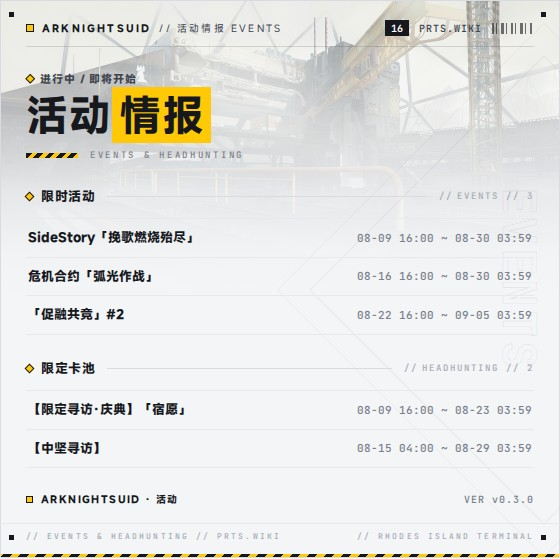
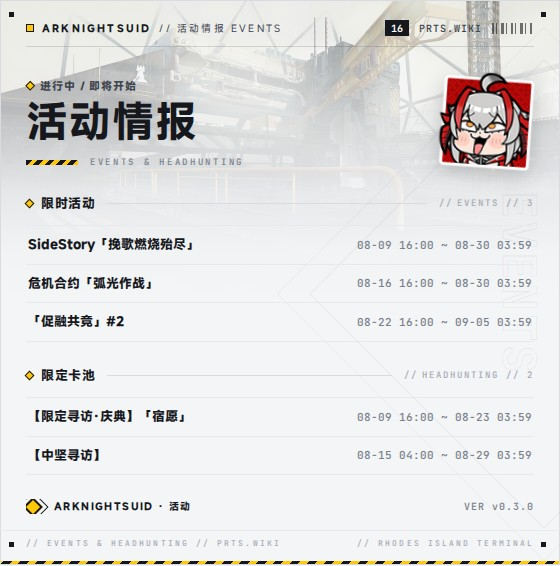
🖼 预览基线重渲染 + 渲染回归测试 + README 指令补全
- 28 张业务卡预览 JPG 重渲染（含新贴纸与底部 logo）
- tests/test_preview_render.py：覆盖守恒断言（新卡必须补假数据）
  + Playwright 全量渲染回归（无引擎自动跳过）
- README 补 ark攒抽 / ark面板 / ark肉鸽关卡

diff --git a/tools/render_previews.py b/tools/render_previews.py
@@ -57,6 +57,28 @@ def asset_b64(key: str) -> str:
 
 
 # 各模板的假数据（数据层接入前的设计验证用）
+def _gacha_plan_preview() -> dict:
+    """攒抽规划卡预览：走真实计算链（build_summary/build_plan_context）。"""
+    from ArknightsUID.utils.gacha_plan import (
+        PlanArgs,
+        build_plan_context,
+        build_summary,
+    )
+    from ArknightsUID.version import ArknightsUID_version
+
+    args = PlanArgs(
+        orundum=60000, originium=30, single_tickets=2, ten_tickets=1, pity=37
+    )
+    summary = build_summary(
+        args,
+        {"title": "·跨洲远航·", "end": "2026-09-01 04:00", "end_ts": 1e11},
+        pity=37,
+    )
+    return build_plan_context(
+        summary, "刀客塔不吃香菜", "12****89", ArknightsUID_version
+    )
+
+
 MOCK_CONTEXTS = {
     "ark_help.html": {
         "version": VERSION,
@@ -91,6 +113,7 @@ MOCK_CONTEXTS = {
                     {"cmd": "ark抽卡记录", "desc": "抽卡记录统计卡", "eg": "ark抽卡记录"},
                     {"cmd": "ark兑换码", "desc": "礼包码兑换", "eg": "ark兑换码 <code>"},
                     {"cmd": "ark养成", "desc": "养成材料缺口计算", "eg": "ark养成 银灰"},
+                    {"cmd": "ark攒抽 [参数]", "desc": "攒抽规划（自动垫刀/卡池）", "eg": "ark攒抽 玉:60000 石:30 垫刀:20"},
                 ],
             },
             {
@@ -235,6 +258,7 @@ MOCK_CONTEXTS = {
         ],
         "version": VERSION,
     },
+    "ark_gacha_plan.html": _gacha_plan_preview(),
     "ark_wiki_page.html": {
         "title": "源石",
         "summary": "泰拉大陆上普遍存在的黑色半透明矿物，蕴含着巨大的能量，也是天灾与矿石病的源头。它被广泛用于能源、工业与法术催化等领域，是这个世界运转的基石之一。",
@@ -246,6 +270,36 @@ MOCK_CONTEXTS = {
             {"key": "描述", "value": "接触过量源石会导致矿石病感染"},
         ],
         "source_url": "https://prts.wiki/w/源石",
+        "version": VERSION,
+    },
+    "ark_op_panel.html": {
+        "name": "银灰",
+        "char_id": "char_172_svrash",
+        "profession": "近卫",
+        "rarity": 6,
+        "avatar": "",
+        "owned": True,
+        "config_labels": ["精2 Lv90", "潜能6", "好感200%", "X模组·雪境羽兽护理套组 Lv3", "技能：真银斩·专3"],
+        "attrs": {"hp": "2990", "atk": "859", "def": "397", "res": "10",
+                  "cost": "18", "block": "2", "respawn": "66", "interval": "1.3"},
+        "breakdown": [
+            "生命：基础 2560 → 好感+100、模组+330",
+            "攻击：基础 713 → 潜能+26、好感+50、模组+70",
+        ],
+        "talents": [
+            {"name": "领袖", "description": "攻击力+12%（+2%），编入队伍时所有我方单位的再部署时间-10%"},
+            {"name": "鹰眼视觉", "description": "攻击范围内敌人的隐匿效果失效"},
+        ],
+        "skill": {
+            "title": "真银斩", "label": "专3",
+            "description": "攻击力+200%，攻击范围扩大，最多同时攻击3个敌人（满潜后攻击范围内所有敌人）",
+            "sp_init": "15", "sp_cost": "60", "duration": "30",
+        },
+        "skills": [],
+        "potentials": ["部署费用-1", "再部署时间-4秒", "攻击力+26", "第一天赋效果增强", "部署费用-1", "第二天赋效果增强"],
+        "module_choices": [{"type": "X", "name": "雪境羽兽护理套组"}],
+        "source_url": "https://prts.wiki/w/银灰",
+        "source_note": "数值 ArknightsGameData · 技能文本 PRTS Wiki",
         "version": VERSION,
     },
     "ark_wiki_operator.html": {
@@ -326,24 +380,41 @@ MOCK_CONTEXTS = {
         "attack_type": "近战",
         "move_type": "地面",
         "kind": "感染者",
+        "event": "主线第七章",
+        "enemy_id": "P7",
         "has_stats": True,
         "max_hp": "45000",
         "atk": "1200",
         "defense": "1500",
         "res": "60",
-        "has_level2": True,
-        "lv2_hp": "60000",
-        "lv2_atk": "1600",
-        "lv2_defense": "1500",
-        "lv2_res": "60",
-        "weight": "6",
+        "secondary_stats": [
+            {"label": "移动速度", "value": "0.4"},
+            {"label": "攻击间隔", "value": "4.0"},
+            {"label": "攻击范围半径", "value": "1.5"},
+            {"label": "重量", "value": "6"},
+            {"label": "生命恢复", "value": "200"},
+        ],
+        "resistances": [
+            {"label": "沉默", "value": "有"},
+            {"label": "眩晕", "value": "有"},
+        ],
+        "has_resistances": True,
+        "variants": [
+            {
+                "label": "等级2",
+                "hp": "60000",
+                "atk": "1600",
+                "defense": "1500",
+                "res": "60",
+                "abilities": [
+                    "狂怒姿态：攻击速度与移动速度大幅提升，防御力降低",
+                ],
+            }
+        ],
         "abilities": [
             "行军姿态：防御力大幅提升，阻挡数+1，法术抗性提升",
             "毁灭姿态：攻击力大幅提升，攻击造成范围伤害",
             "被击败时释放冲击波，对全场造成真实伤害",
-        ],
-        "lv2_abilities": [
-            "狂怒姿态：攻击速度与移动速度大幅提升，防御力降低",
         ],
         "source_url": "https://prts.wiki/w/爱国者",
         "version": VERSION,
@@ -386,16 +457,70 @@ MOCK_CONTEXTS = {
         "name": "歌利亚",
         "enemy_key": "enemy_2074_skzgly",
         "tags": ["领袖", "近战"],
+        "resistances": ["沉默"],
         "icon": "",
         "forms": [
-            {"title": "形态1", "hp": 80000, "atk": 2350, "def": 1000, "res": 25, "weight": 5, "attack": "近战/物理"},
+            {
+                "title": "形态1", "hp": 80000, "atk": 2350, "def": 1000,
+                "res": 25, "weight": 5, "attack": "近战/物理",
+                "extras": ["移速 0.5", "间隔 6s", "进点-5"],
+                "mechanics": [
+                    "只在阻挡数不低于5时才会被我方单位阻挡",
+                    "进入目标点后停留一段时间，持续造成大量法术伤害",
+                ],
+            },
         ],
         "theme_name": "萨卡兹的无终奇语",
-        "panels": [
-            {"grade": 0, "label": "难度0·新手（HP×0.8）", "stats": {"hp": 64000, "atk": 2350, "def": 1000, "res": 25}, "notes": []},
-            {"grade": 4, "label": "难度4", "stats": {"hp": 96000, "atk": 2350, "def": 1000, "res": 25}, "notes": []},
-            {"grade": 7, "label": "难度7~15 起（更高档数值不变）", "stats": {"hp": 96000, "atk": 2585, "def": 1000, "res": 25}, "notes": ["dmg_res 0.1"]},
+        "panels": [],
+        "stage_groups": [
+            {
+                "theme": "sarkaz",
+                "theme_name": "萨卡兹的无终奇语",
+                "stages": [
+                    "不容拒绝·ISW-DF·6-7层",
+                    "共谋的夜幕·ISW-NO·3层·形态2",
+                    "大君之赐·ISW-DF·3层·紧急+",
+                    "拆东补西·ISW-NO·1-2层",
+                    "守望的河水·ISW-NO·1层",
+                    "枯朽的引擎·ISW-DF·4层",
+                ],
+                "total": 9,
+            }
         ],
+        "focus": {
+            "grade": 12,
+            "label": "难度12",
+            "stats": {"hp": 122880, "atk": 2866, "def": 1150, "res": 25},
+            "buffs": ["生命×1.2", "攻击×1.15", "防御×1.15", "受到伤害×0.1", "每层增益+7%（未计入，按层复合）"],
+        },
+        "source_note": "数据 tomimi.dev（游戏解包）",
+        "version": VERSION,
+    },
+    "ark_rogue_stage.html": {
+        "name": "拆东补西",
+        "code": "ISW-NO",
+        "level_id": "level_rogue4_2-2",
+        "theme_name": "萨卡兹的无终奇语",
+        "difficulty": 15,
+        "difficulty_label": "难度15",
+        "elite": True,
+        "floors": "1-2层",
+        "elite_descs": ["所有敌方单位的攻击力，防御力，生命值+20%", "额外出现1个年代之刺"],
+        "elite_chips": ["攻击×1.2", "防御×1.2", "生命×1.2"],
+        "rows": [
+            {"key": "enemy_2063_skzlch", "name": "萨卡兹领主", "icon": "", "count": "4",
+             "stats": {"hp": 27840, "atk": 1128, "def": 1440, "res": 30}, "level": 0,
+             "elite_note": "", "has_diff": True},
+            {"key": "enemy_2065_skzjs", "name": "萨卡兹剑士", "icon": "", "count": "波次",
+             "stats": {"hp": 5184, "atk": 648, "def": 345, "res": 0}, "level": 0,
+             "elite_note": "", "has_diff": True},
+            {"key": "enemy_1071_dftman", "name": "重装防御者", "icon": "", "count": "0-1",
+             "stats": {"hp": 41472, "atk": 900, "def": 2073, "res": 0}, "level": 0,
+             "elite_note": "紧急+1", "has_diff": True},
+        ],
+        "row_count": 3,
+        "skipped": 1,
+        "floor_note": "每层增益+10%（未计入，按层复合）",
         "source_note": "数据 tomimi.dev（游戏解包）",
         "version": VERSION,
     },
@@ -678,6 +803,11 @@ async def _enrich_icons(name: str, context: dict) -> None:
 
         if context.get("enemy_key"):
             context["icon"] = await enemy_icon_b64(context["enemy_key"])
+    elif name == "ark_rogue_stage.html":
+        from ArknightsUID.utils.gamedata.rogue_enemy import enemy_icon_b64
+
+        for row in context.get("rows", []):
+            row["icon"] = await enemy_icon_b64(row.get("key") or "")
     elif name == "ark_rogue_relic.html":
         from ArknightsUID.utils.gamedata.rogue_relic import relic_icon_b64
 
@@ -716,6 +846,13 @@ async def _enrich_icons(name: str, context: dict) -> None:
                 "",
             )
             row["avatar"] = await char_avatar_b64(hit) if hit else ""
+
+    # 头像增强（面板模拟卡用 char_id 换头像）
+    if name == "ark_op_panel.html":
+        from ArknightsUID.utils.player.context import char_avatar_b64
+
+        if context.get("char_id"):
+            context["avatar"] = await char_avatar_b64(context["char_id"])
 
     # 立绘是独立增强位（与材料图标 elif 链不冲突，可同时命中）
     if name in ("ark_char_card.html", "ark_cultivate.html", "ark_wiki_mastery.html", "ark_wiki_operator.html"):
@@ -779,10 +916,10 @@ async def _enrich_icons(name: str, context: dict) -> None:
         context["six_rows"] = six_rows
 
     if name == "ark_help.html":
-        # 装饰浮空立绘（阿米娅，透明 PNG）
-        from ArknightsUID.utils.player.context import char_portrait_b64
+        # 逐命令 Q 版干员图标（与生产同一分配函数）
+        from ArknightsUID.arknightsuid_help import assign_group_icons
 
-        context["figure"] = await char_portrait_b64("char_002_amiya", 5)
+        context["groups"] = assign_group_icons(context["groups"])
 
     if name == "ark_building.html":
         # 房间成员头像：名称反查 charId → 初始头像

diff --git a/tests/test_preview_render.py b/tests/test_preview_render.py
@@ -1,0 +1,68 @@
+"""全模板渲染回归：业务卡用预览假数据走真实渲染管线出图。
+
+与 tools/render_previews.py 同源（MOCK_CONTEXTS）——新增业务模板必须
+同步补预览假数据，否则覆盖守恒断言失败。Playwright 不可用时渲染用例
+整体跳过（覆盖断言不依赖渲染引擎，始终执行）。
+
+运行：在 gsuid_core venv 下 `python -m pytest tests/test_preview_render.py -v`
+"""
+from __future__ import annotations
+
+import importlib.util
+import sys
+import unittest
+from pathlib import Path
+
+sys.path.insert(0, str(Path(__file__).parents[1]))
+
+# 非业务卡：head 是 include 片段；ping 是渲染管线自检（test_p0_render 覆盖）
+_NON_BUSINESS = {"ark_head.html", "ark_ping.html"}
+
+
+def _load_preview_module():
+    tool_path = Path(__file__).parents[1] / "tools" / "render_previews.py"
+    spec = importlib.util.spec_from_file_location("ark_render_previews", tool_path)
+    module = importlib.util.module_from_spec(spec)
+    spec.loader.exec_module(module)
+    return module
+
+
+class PreviewCoverageTest(unittest.TestCase):
+    """覆盖守恒：每张业务模板都有预览假数据（防新增卡片漏建假数据）。"""
+
+    def test_every_business_template_has_preview_data(self) -> None:
+        module = _load_preview_module()
+        templates_dir = Path(__file__).parents[1] / "ArknightsUID" / "templates"
+        business = {
+            p.name for p in templates_dir.glob("ark_*.html")
+        } - _NON_BUSINESS
+        self.assertEqual(
+            business,
+            set(module.MOCK_CONTEXTS),
+            "templates/ 业务模板与 render_previews 假数据清单不一致",
+        )
+
+
+class PreviewRenderRegressionTest(unittest.IsolatedAsyncioTestCase):
+    """真实渲染管线全量出图（Playwright 页池 + .container 截图）。"""
+
+    async def test_all_business_templates_render(self) -> None:
+        from ArknightsUID.utils.render.render_utils import PLAYWRIGHT_AVAILABLE
+
+        if not PLAYWRIGHT_AVAILABLE:
+            self.skipTest("Playwright 不可用，跳过渲染回归")
+
+        from ArknightsUID.utils.render import ark_templates, render_html
+
+        module = _load_preview_module()
+        for name, context in module.MOCK_CONTEXTS.items():
+            with self.subTest(template=name):
+                img = await render_html(ark_templates, name, dict(context))
+                self.assertIsNotNone(img, f"{name} 渲染返回空")
+                self.assertGreater(
+                    len(img), 10_000, f"{name} 出图异常偏小，疑似空卡/坏卡"
+                )
+
+
+if __name__ == "__main__":
+    unittest.main()

diff --git a/README.md b/README.md
@@ -33,17 +33,20 @@ GsCore 明日方舟插件，支持自有森空岛登录（凭据/扫码），也
 - `ark抽卡记录` / `ark抽卡分析`: 增量拉取官方寻访记录并出统计卡（总抽数/六星率/平均/垫刀/最近六星）。
 - `ark兑换码 <code>`: 官网礼包码兑换（需要账号已保存森空岛登录态）。
 - `ark养成 <干员名>`: 养成材料缺口计算——当前练度到毕业（精2/技能7/专精3/模组满级）所需材料对比仓库持有，支持别名（如 `ark养成 42`）。
+- `ark攒抽 [玉:60000] [石:30] [垫刀:20]`: 攒抽规划——资源折算抽数 + 限定/井概率（口径同源一图流 gachaCalc，自动垫刀与当前卡池，支持 单/十 券、单UP/双UP、天数推演与目标抽数）。
 
 ### PRTS / Wiki
 
 - `arkwiki 词条`: 查询 PRTS 词条摘要。
 - `ark干员 干员名`: 查询干员资料（技能逐级详情含伤害数值、天赋逐阶段与满潜数值；已绑定账号时附「我的练度」——当前技能/专精等级 vs 满级对比、专精训练剩余时间；支持别名，如 `ark干员 silverash`）。
+- `ark面板 <干员名> [精2] [Lv45/满级] [潜6/满潜] [技能2 专3] [X模/无模] [满好]`: 干员面板模拟——默认取你自己的练度，可指定任意等级/潜能/模组/技能档出最终面板数值与来源拆解（数据 ArknightsGameData）。
 - `ark专精材料 干员名`: 查询技能专精材料。
 - `ark材料 材料名`: 查询材料资料。
 - `ark敌人 敌人名`: 查询敌人资料（基础数值、机制/天赋、等级 2 变体数值与独立机制）。
 - `ark关卡 1-7`: 查询关卡信息、掉落、敌方情报（含 HP/攻/防/抗基础数值）、关卡地图（PRTS 文件）与 PRTS.Map 交互链接。
 - `ark公招 标签1 标签2`: 公招标签组合查询。
 - `ark藏品 名字`: 肉鸽（集成战略）藏品效果查询——跨全期按名聚合、同名去重（数据 ArknightsGameData，图标 tomimi.dev，支持前缀/子串唯一匹配）。
+- `ark肉鸽关卡 <关名> [N难度] [紧急]`: 肉鸽关卡出怪面板——该难度下全体敌人的折算数值与机制（tomimi.dev 开源数据，支持紧急作战折算，如 `ark肉鸽关卡 拆东补西 N15 紧急`）。
 - `ark日历`: 活动 / 卡池日历。
 
 ### 活动与推送（PRTS + 森空岛 web + 一图流）
